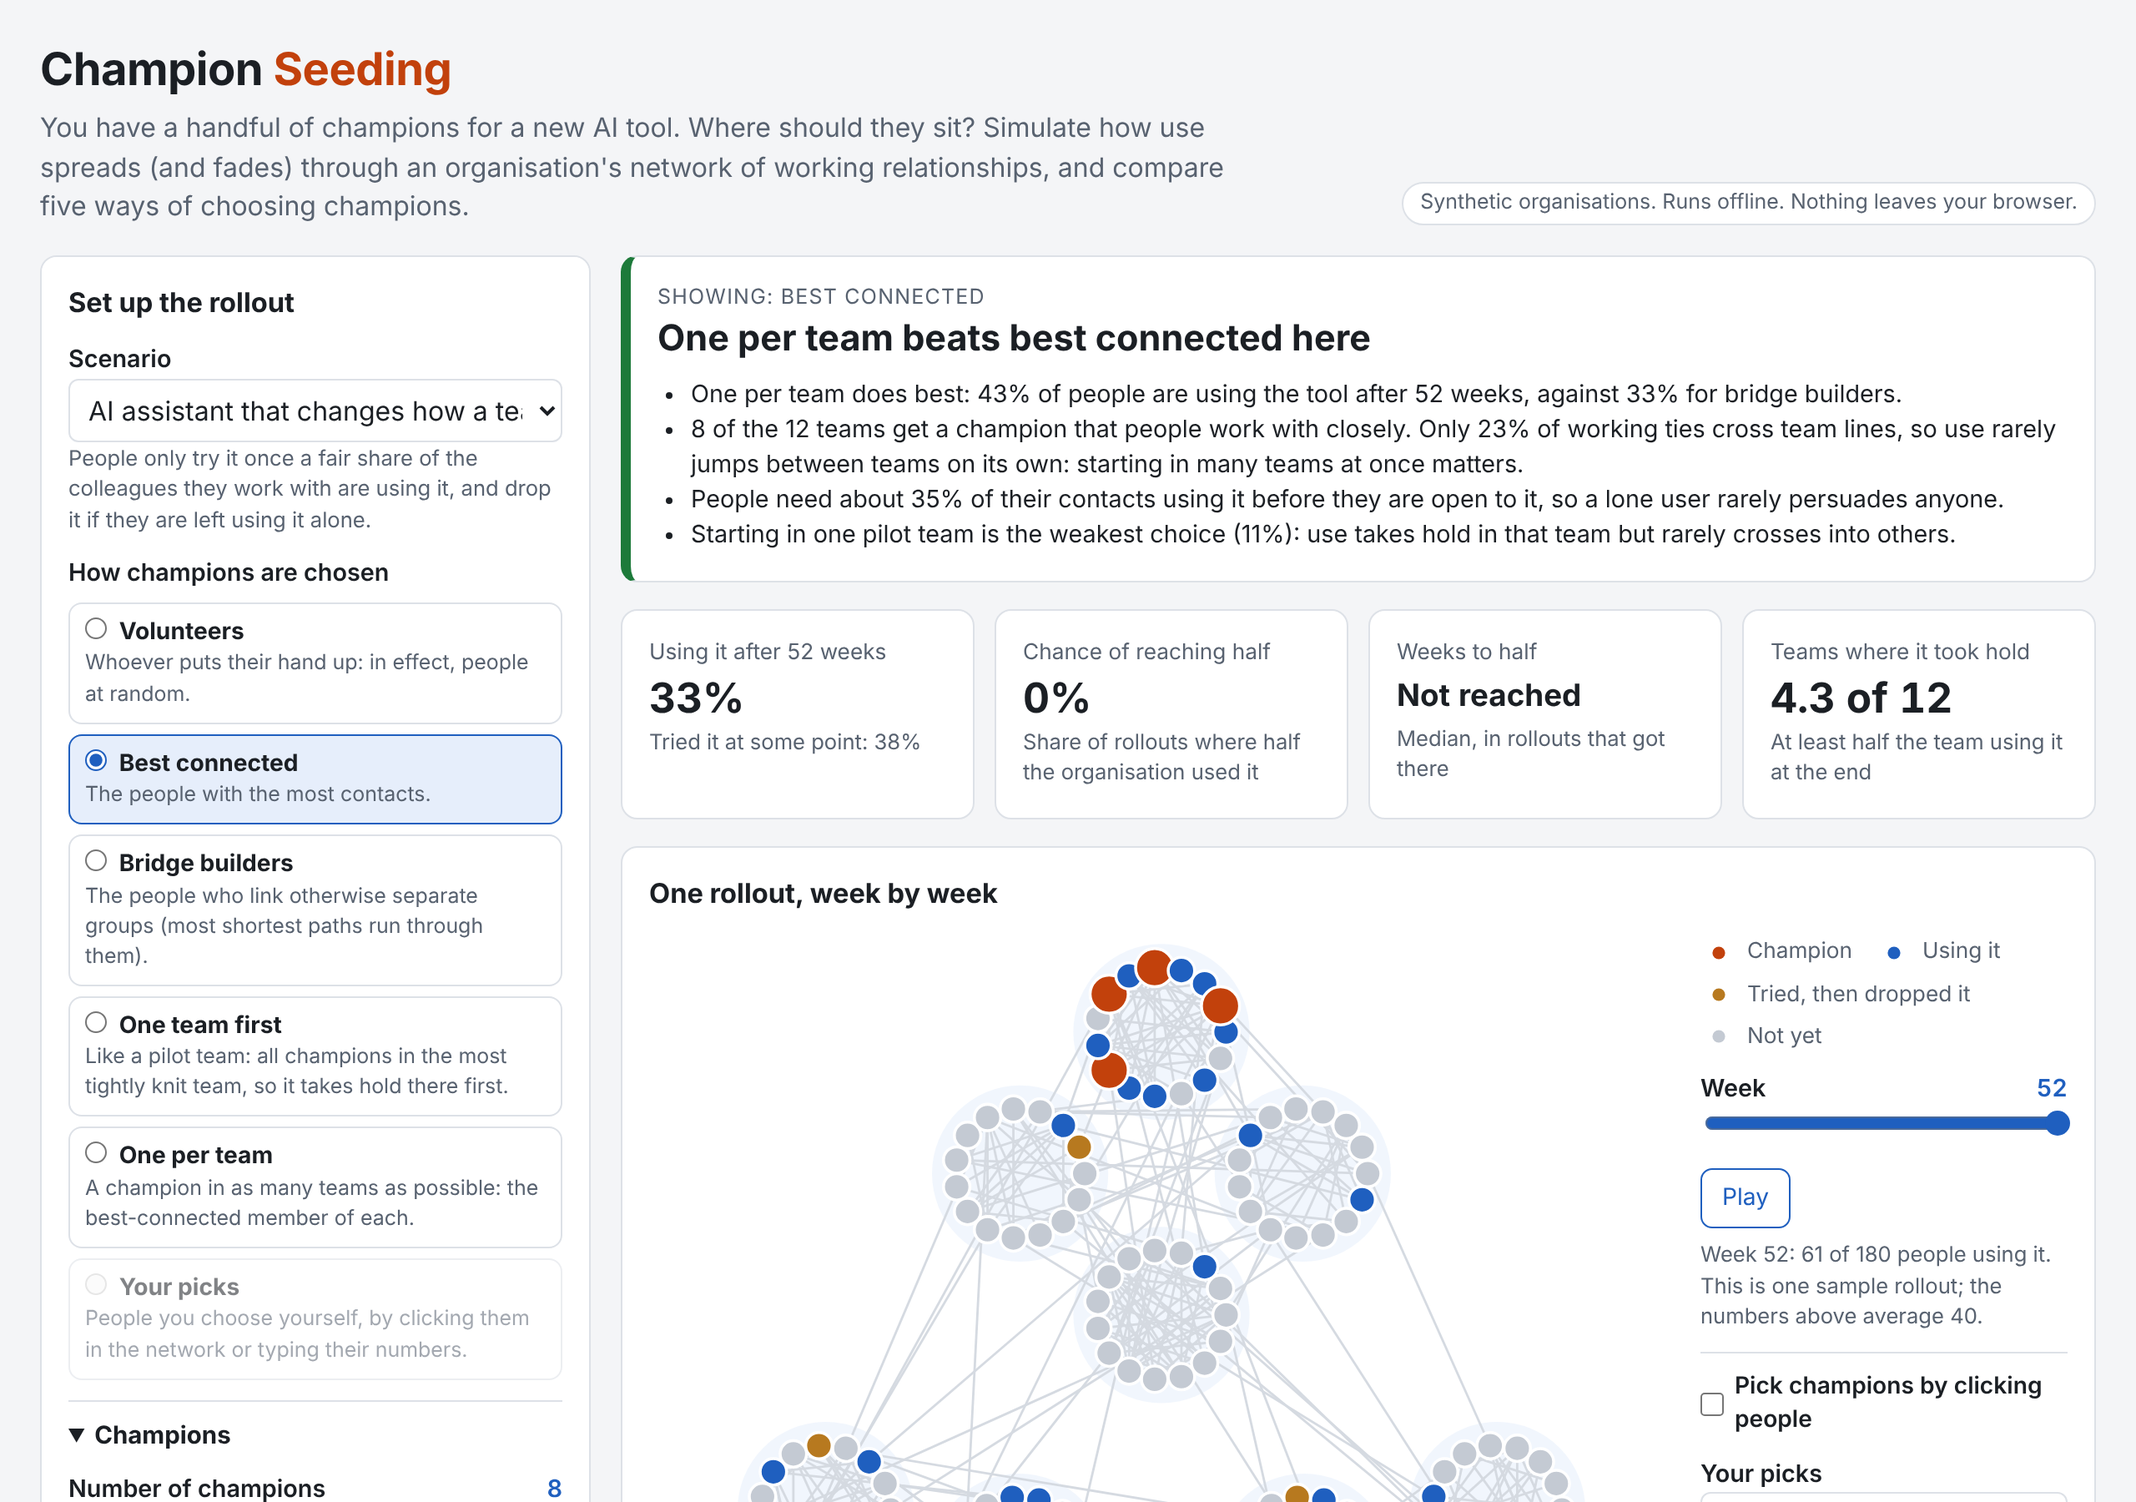
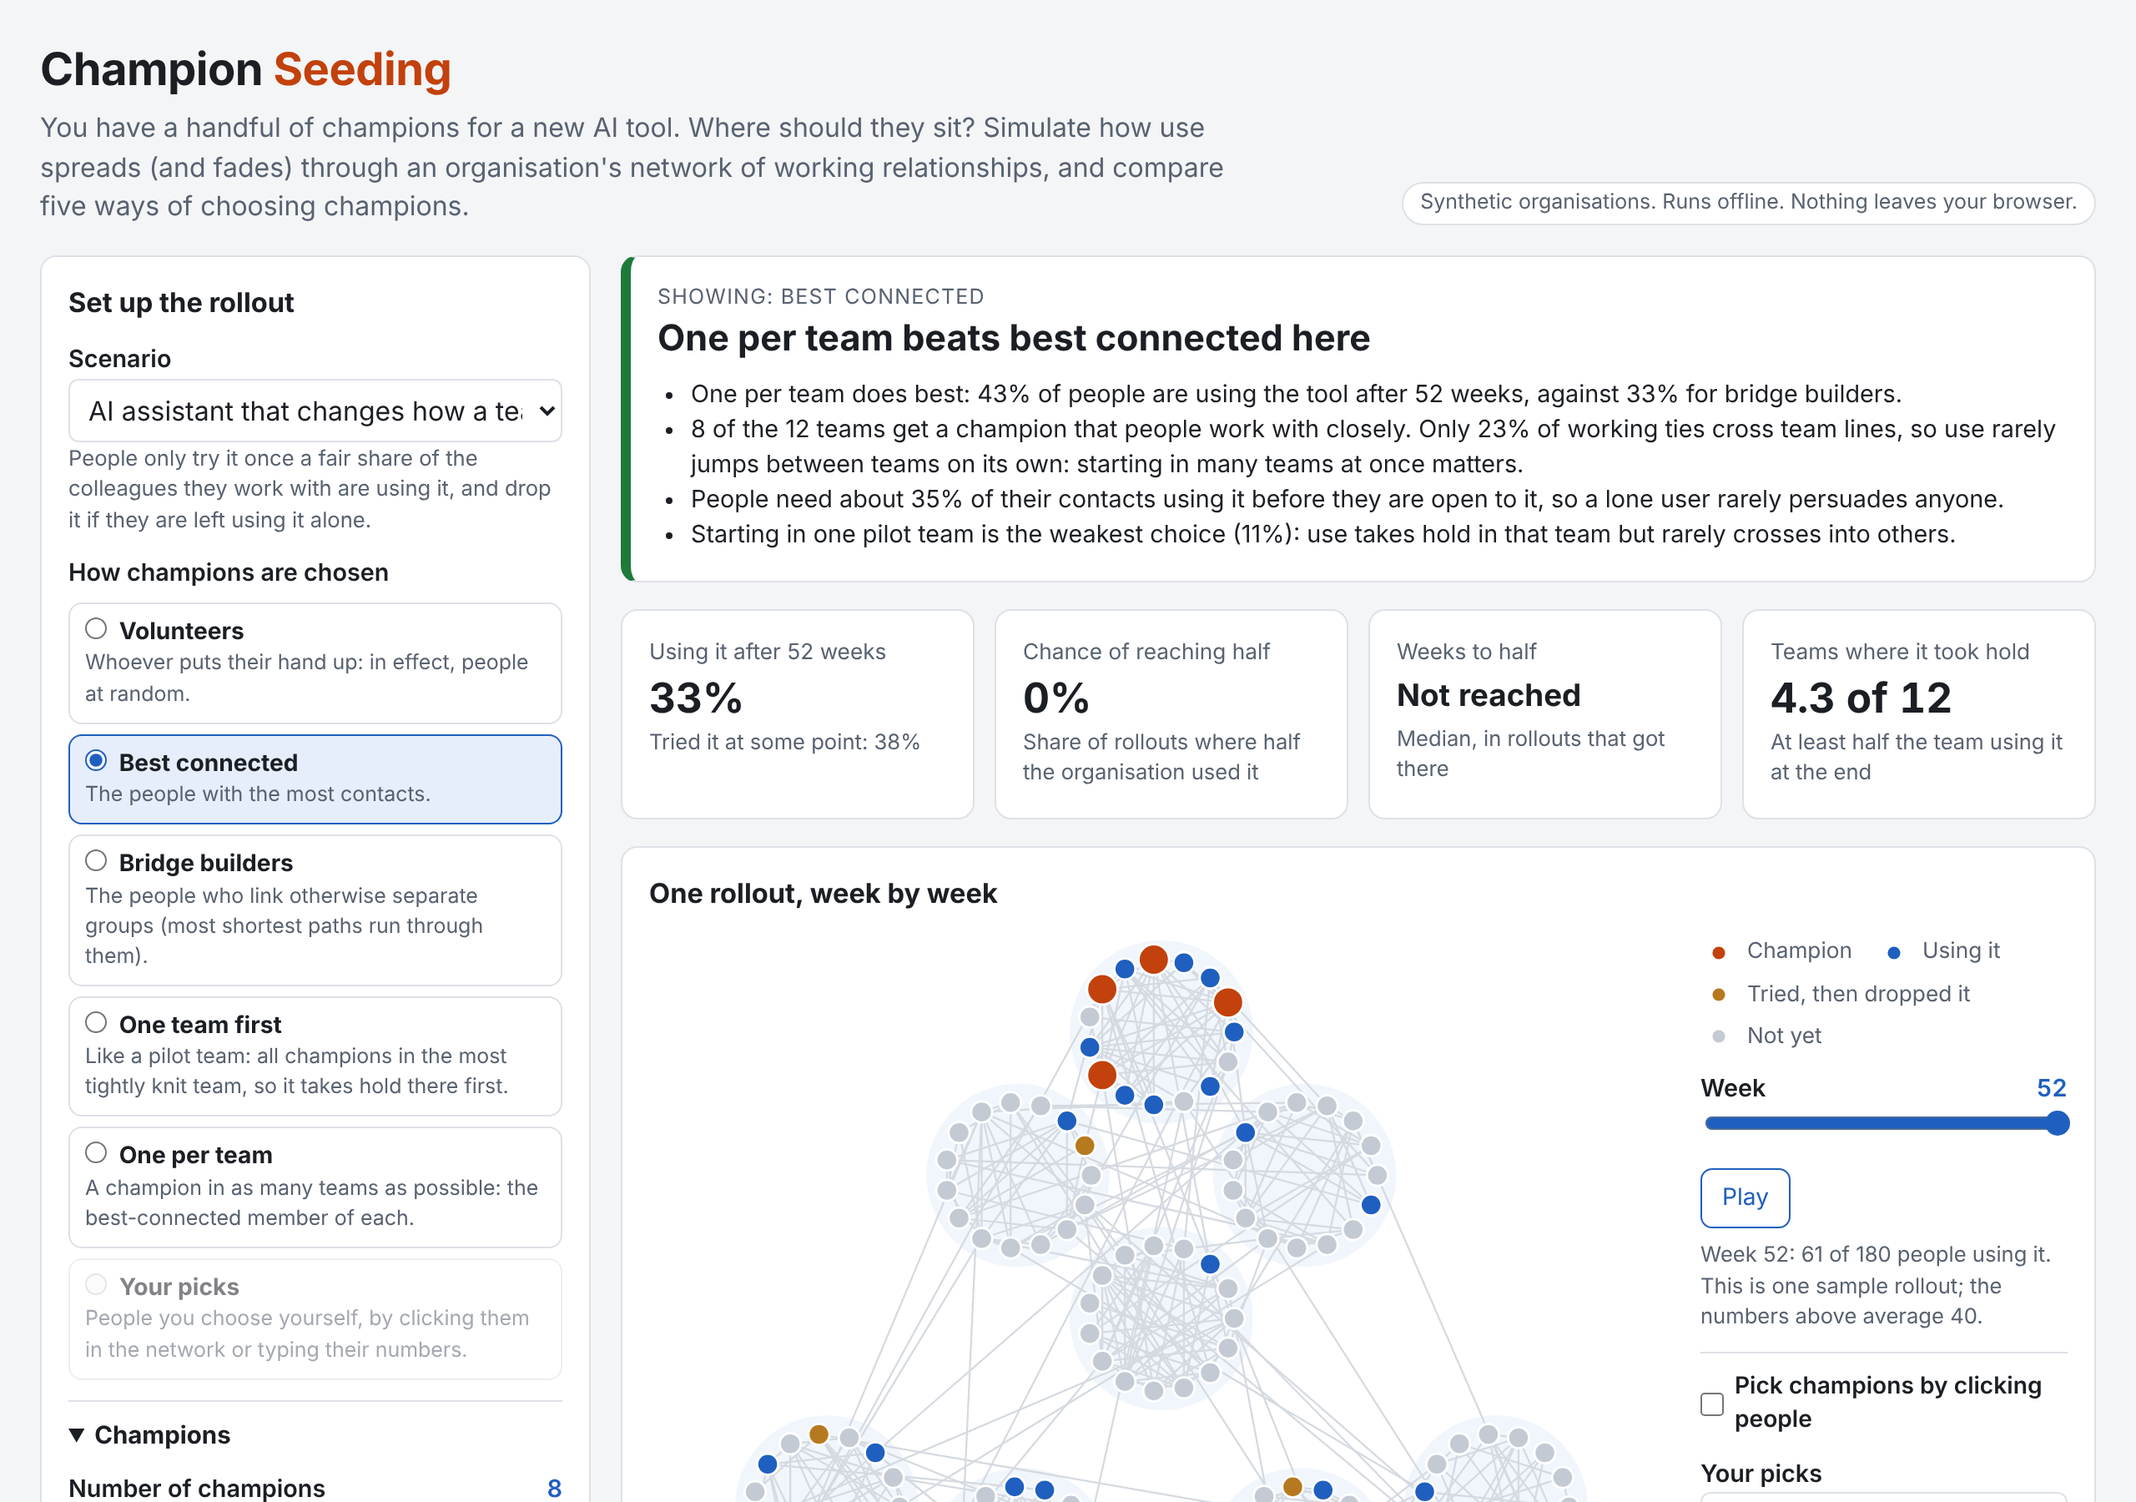
Second audit: keep raw settings so nothing is lost passing through low values, accurate picks status, people never overlap in the drawing, quiet broken pipes

Changed region(s): [[0.3438, 0.6222, 0.75, 1.0]]

diff --git a/app/index.html b/app/index.html
@@ -919,12 +919,14 @@ if (typeof module !== 'undefined' && module.exports) module.exports = SeedingMod
       label.appendChild(el('output', { id: 'o-' + spec.key, 'for': 'p-' + spec.key }));
       var input = el('input', { type: 'range', id: 'p-' + spec.key, min: spec.min, max: spec.max, step: spec.step, 'aria-describedby': 'h-' + spec.key });
       input.addEventListener('input', function () {
+        // The raw value is kept, so passing through a low value never throws other settings away.
+        // The model's limits (teams of three or more, picks within the champions) apply to what is
+        // shown in the outputs and to what is run.
         state.params[spec.key] = Number(input.value);
-        // Apply the same limits as the model (teams of three or more, picks within the organisation),
-        // so the controls always show what is actually being run.
-        state.params = M.normaliseParams(state.params);
         markCustom();
-        syncControls();
+        refreshOutputs();
+        syncStrategies();
+        syncPicks();
         schedule();
       });
       wrap.appendChild(label);
@@ -956,12 +958,22 @@ if (typeof module !== 'undefined' && module.exports) module.exports = SeedingMod
     document.getElementById('preset-help').textContent = 'Your own settings.';
   }
 
+  // The settings the model will actually run with.
+  function effective() { return M.normaliseParams(state.params); }
+
   function refreshOutputs() {
+    var e = effective();
     M.PARAMS.forEach(function (spec) {
-      var text = fmtValue(spec, state.params[spec.key]);
+      var raw = Number(state.params[spec.key]);
+      var text = fmtValue(spec, e[spec.key]) + (Math.abs(raw - e[spec.key]) > 1e-9 ? ' (limited)' : '');
       document.getElementById('o-' + spec.key).textContent = text;
       document.getElementById('p-' + spec.key).setAttribute('aria-valuetext', text);
     });
+  }
+
+  function syncStrategies() {
+    var key = effective().strategy;
+    document.querySelectorAll('input[name=strategy]').forEach(function (r) { r.checked = r.value === key; });
   }
 
   function syncControls() {
@@ -969,38 +981,43 @@ if (typeof module !== 'undefined' && module.exports) module.exports = SeedingMod
     document.getElementById('preset-help').textContent = state.preset === 'custom' ? 'Your own settings.' : M.PRESETS[state.preset].help;
     M.PARAMS.forEach(function (spec) { document.getElementById('p-' + spec.key).value = state.params[spec.key]; });
     refreshOutputs();
-    document.querySelectorAll('input[name=strategy]').forEach(function (r) { r.checked = r.value === state.params.strategy; });
+    syncStrategies();
     syncPicks();
   }
 
   // ---- Your own picks ----
 
+  // The picks box shows everything you picked; the status says how many are actually used.
   function syncPicks() {
-    var picks = state.params.custom || [];
-    document.getElementById('picks').value = picks.map(function (v) { return v + 1; }).join(', ');
+    var raw = M.readPicks(state.params.custom, 1e9, 1e9), e = effective();
+    document.getElementById('picks').value = raw.map(function (v) { return v + 1; }).join(', ');
     var custom = document.querySelector('input[name=strategy][value=custom]');
-    custom.disabled = picks.length === 0;
-    document.getElementById('strategy-custom').classList.toggle('disabled', picks.length === 0);
+    custom.disabled = e.custom.length === 0;
+    document.getElementById('strategy-custom').classList.toggle('disabled', e.custom.length === 0);
+    var status;
+    if (!raw.length) status = '';
+    else if (e.custom.length < raw.length) status = raw.length + ' picked, but only ' + e.custom.length + ' can be used with ' + e.champions + ' champions and ' + e.people + ' people.';
+    else status = e.custom.length + ' of ' + e.champions + ' champions picked.';
+    document.getElementById('picks-status').textContent = status;
   }
 
   function setPicks(list, message) {
-    var before = state.params.custom.length;
+    var before = effective().custom.length;
     state.params.custom = list;
-    state.params = M.normaliseParams(state.params);
-    if (state.params.custom.length && !before) state.params.strategy = 'custom';
-    if (!state.params.custom.length && state.params.strategy === 'custom') state.params.strategy = M.DEFAULTS.strategy;
+    var after = effective().custom.length;
+    if (after && !before) state.params.strategy = 'custom';
+    if (!after && state.params.strategy === 'custom') state.params.strategy = M.DEFAULTS.strategy;
     markCustom();
     syncControls();
-    document.getElementById('picks-status').textContent = message || (state.params.custom.length ?
-      state.params.custom.length + ' of ' + state.params.champions + ' champions picked.' : 'No picks.');
+    if (message) document.getElementById('picks-status').textContent = message;
     schedule();
   }
 
   function togglePick(i) {
-    var picks = state.params.custom.slice(), at = picks.indexOf(i);
+    var picks = M.readPicks(state.params.custom, 1e9, 1e9), at = picks.indexOf(i), e = effective();
     if (at >= 0) { picks.splice(at, 1); setPicks(picks); return; }
-    if (picks.length >= state.params.champions) {
-      document.getElementById('picks-status').textContent = 'You have ' + state.params.champions + ' champions. Remove one, or raise the number of champions, to pick more.';
+    if (e.custom.length >= e.champions) {
+      document.getElementById('picks-status').textContent = 'You have ' + e.champions + ' champions. Remove one, or raise the number of champions, to pick more.';
       return;
     }
     picks.push(i);
@@ -1013,12 +1030,10 @@ if (typeof module !== 'undefined' && module.exports) module.exports = SeedingMod
       var t = part.trim();
       if (!t) return;
       var n = M.toNumber(t);
-      if (isFinite(n) && n === Math.floor(n) && n >= 1 && n <= state.params.people) nums.push(n - 1); else bad.push(t);
+      var people = effective().people;
+      if (isFinite(n) && n === Math.floor(n) && n >= 1 && n <= people) nums.push(n - 1); else bad.push(t);
     });
-    var message = null;
-    if (bad.length) message = 'Ignored ' + bad.join(', ') + ': people are numbered 1 to ' + state.params.people + '.';
-    else if (nums.length > state.params.champions) message = 'Only the first ' + state.params.champions + ' (by number) are used: there are ' + state.params.champions + ' champions.';
-    setPicks(nums, message);
+    setPicks(nums, bad.length ? 'Ignored ' + bad.join(', ') + ': people are numbered 1 to ' + effective().people + '.' : null);
   }
 
   function schedule() { clearTimeout(timer); timer = setTimeout(run, 150); }
@@ -1072,7 +1087,7 @@ if (typeof module !== 'undefined' && module.exports) module.exports = SeedingMod
   }
 
   // The strategy shown in detail; falls back to the best one if it is not in the latest results.
-  function selected() { return resultFor(state.params.strategy) || resultFor(current.cmp.ranking[0]); }
+  function selected() { return resultFor(effective().strategy) || resultFor(current.cmp.ranking[0]); }
 
   function renderAll() {
     if (!current) return;
@@ -1120,7 +1135,9 @@ if (typeof module !== 'undefined' && module.exports) module.exports = SeedingMod
     box.appendChild(kpi('Teams where it took hold', r.holdsMean.toFixed(1) + ' of ' + current.net.teams, 'At least half the team using it at the end'));
   }
 
-  // Departments round a large circle, teams round each department, people round each team.
+  // Radius of the ring a team's people sit on: big enough that neighbouring dots never touch.
+  function ringRadius(n) { return Math.max(5 + 4.4 * Math.sqrt(n), n * 13 / (2 * Math.PI)); }
+
   // Departments round a large circle, teams round each department, people round each team.
   // Radii are worked out so that no two team outlines overlap, however many teams there are.
   function layout(net, p) {
@@ -1130,7 +1147,7 @@ if (typeof module !== 'undefined' && module.exports) module.exports = SeedingMod
     for (t = 0; t < T; t++) teamsByDept[t % D].push(t);
     var biggest = 0;
     for (t = 0; t < T; t++) biggest = Math.max(biggest, net.teamSize[t]);
-    var rt = 5 + 4.4 * Math.sqrt(biggest) + 8;          // radius of the largest team outline
+    var rt = ringRadius(biggest) + 8;                    // radius of the largest team outline
     var ringR = teamsByDept.map(function (list) {        // how far each department's teams sit from its centre
       return list.length > 1 ? Math.max(rt + 4, (rt + 4) / Math.sin(Math.PI / list.length)) : 0;
     });
@@ -1143,17 +1160,19 @@ if (typeof module !== 'undefined' && module.exports) module.exports = SeedingMod
       var dx = deptR * Math.cos(da), dy = deptR * Math.sin(da);
       var list = teamsByDept[d];
       list.forEach(function (tt, j) {
-        var ta = 2 * Math.PI * j / list.length - Math.PI / 2 + (D > 1 ? da + Math.PI / 2 : 0);
+        // A single department with two teams puts them side by side rather than one above the other.
+        var turn = D > 1 ? da + Math.PI / 2 : (list.length === 2 ? 3 * Math.PI / 2 : 0);
+        var ta = 2 * Math.PI * j / list.length - Math.PI / 2 + turn;
         centres[tt] = [dx + ringR[d] * Math.cos(ta), dy + ringR[d] * Math.sin(ta)];
       });
     }
     var seen = [];
     for (t = 0; t < T; t++) seen.push(0);
     var circles = [];
-    for (t = 0; t < T; t++) circles.push([centres[t][0], centres[t][1], 5 + 4.4 * Math.sqrt(net.teamSize[t]) + 8]);
+    for (t = 0; t < T; t++) circles.push([centres[t][0], centres[t][1], ringRadius(net.teamSize[t]) + 8]);
     for (i = 0; i < net.size; i++) {
       var tm = net.team[i], n = net.teamSize[tm], k = seen[tm]++;
-      var r = 5 + 4.4 * Math.sqrt(n);
+      var r = ringRadius(n);
       var a = 2 * Math.PI * k / n;
       pos.push([centres[tm][0] + r * Math.cos(a), centres[tm][1] + r * Math.sin(a)]);
     }
@@ -1525,7 +1544,7 @@ if (typeof module !== 'undefined' && module.exports) module.exports = SeedingMod
     var body = el('tbody');
     current.cmp.ranking.forEach(function (key) {
       var r = resultFor(key);
-      var tr = el('tr', { 'class': key === state.params.strategy ? 'current' : '' });
+      var tr = el('tr', { 'class': key === selected().strategy ? 'current' : '' });
       tr.appendChild(el('th', { scope: 'row' }, M.STRATEGIES[key].label));
       var cells = [pct(r.finalMean), pct(r.everMean), pct(r.reachShare), r.weeksToHalf === null ? 'n/a' : String(r.weeksToHalf), r.holdsMean.toFixed(1)];
       cells.forEach(function (text, i) { tr.appendChild(el('td', { 'class': 'num', 'data-label': COLUMNS[i + 1] }, text)); });

diff --git a/tests/test_ui.py b/tests/test_ui.py
@@ -187,6 +187,14 @@ class UiTest(unittest.TestCase):
                     if ((a[0] - b[0]) ** 2 + (a[1] - b[1]) ** 2) ** 0.5 < a[2] + b[2] - 0.5]
         self.assertEqual(overlaps, [], "team outlines never overlap")
         page.close()
+        for url in (APP, APP + "#people=300&teams=2&departments=1&runs=10", APP + "#people=40&teams=13&departments=6&runs=10"):
+            page = self.open(url)
+            dots = page.evaluate("""() => Array.from(document.querySelectorAll('#net circle[data-i]'))
+                .map(c => [+c.getAttribute('cx'), +c.getAttribute('cy'), +c.getAttribute('r')])""")
+            touching = sum(1 for i, a in enumerate(dots) for b in dots[i + 1:]
+                           if ((a[0] - b[0]) ** 2 + (a[1] - b[1]) ** 2) ** 0.5 < a[2] + b[2])
+            self.assertEqual(touching, 0, "people never overlap: " + url)
+            page.close()
         page = self.open()
         # Sliders show the value the model actually uses.
         page.fill("#p-teams", "30")
@@ -195,17 +203,29 @@ class UiTest(unittest.TestCase):
         page.fill("#p-people", "40")
         page.dispatch_event("#p-people", "input")
         self.settle(page)
-        self.assertEqual(page.input_value("#p-teams"), "13")
-        self.assertEqual(page.inner_text("#o-teams"), "13")
+        self.assertEqual(page.input_value("#p-teams"), "30")
+        self.assertEqual(page.inner_text("#o-teams"), "13 (limited)")
         self.assertIn("of 13", page.inner_text("#kpis"))
-        # Picks are trimmed when the number of champions falls.
+        # Moving back up restores the earlier setting: nothing is thrown away on the way.
+        page.fill("#p-people", "180")
+        page.dispatch_event("#p-people", "input")
+        self.settle(page)
+        self.assertEqual(page.inner_text("#o-teams"), "30")
+        # Fewer champions than picks: the picks are kept, only the first ones are used, and it says so.
         page.fill("#picks", "1, 2, 3, 4, 5, 6")
         page.dispatch_event("#picks", "change")
         self.settle(page)
+        self.assertEqual(page.inner_text("#picks-status"), "6 of 8 champions picked.")
         page.fill("#p-champions", "3")
         page.dispatch_event("#p-champions", "input")
         self.settle(page)
-        self.assertEqual(page.input_value("#picks"), "1, 2, 3")
+        self.assertEqual(page.input_value("#picks"), "1, 2, 3, 4, 5, 6")
+        self.assertIn("6 picked, but only 3 can be used", page.inner_text("#picks-status"))
+        self.assertIn("custom=0,1,2&", page.url + "&")
+        page.fill("#p-champions", "8")
+        page.dispatch_event("#p-champions", "input")
+        self.settle(page)
+        self.assertEqual(page.inner_text("#picks-status"), "6 of 8 champions picked.")
         self.assertEqual(self.errors, [])
         page.close()
 

diff --git a/tests/test_python.py b/tests/test_python.py
@@ -153,6 +153,14 @@ class CliTest(unittest.TestCase):
         self.assertIn("organisations", out)
         self.assertIn("was best in", out)
 
+    def test_piping_into_a_closed_reader_is_quiet(self):
+        import subprocess
+        import sys
+        proc = subprocess.run("%s -m champion_seeding compare --set runs=10 --set weeks=8 | head -1" % sys.executable,
+                              shell=True, capture_output=True, text=True, cwd=ROOT)
+        self.assertNotIn("Broken pipe", proc.stderr)
+        self.assertNotIn("Traceback", proc.stderr)
+
     def test_table_rounds_like_the_explanations(self):
         self.assertEqual(cli.pct(0.845), model.whole_pct(0.845))
         self.assertEqual(cli.pct(0.125), "13%")

diff --git a/champion_seeding/cli.py b/champion_seeding/cli.py
@@ -4,6 +4,7 @@ import argparse
 import csv
 import json
 import math
+import os
 import re
 import sys
 
@@ -248,6 +249,11 @@ def main(argv=None):
             print("\nWrote %s" % args.csv)
     except ValueError as err:
         raise SystemExit("Error: %s" % err)
+    except BrokenPipeError:
+        # Output piped into something like head, which stopped reading: finish quietly.
+        devnull = os.open(os.devnull, os.O_WRONLY)
+        os.dup2(devnull, sys.stdout.fileno())
+        return 0
     except OSError as err:
         raise SystemExit("Could not write %s: %s" % (err.filename, err.strerror))
     return 0
